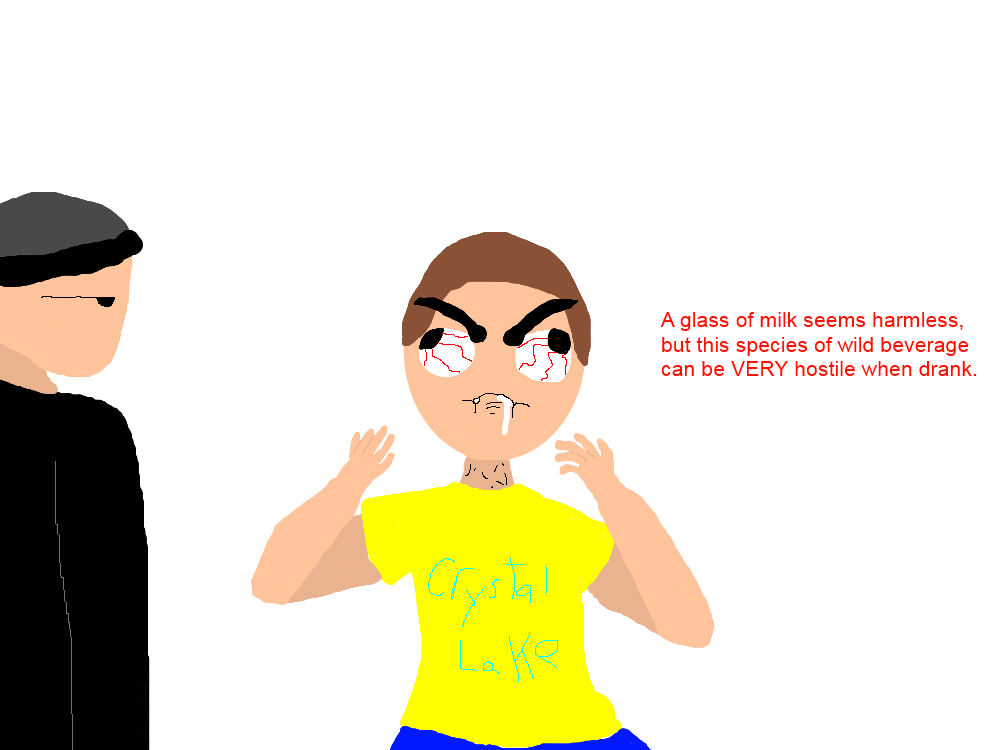
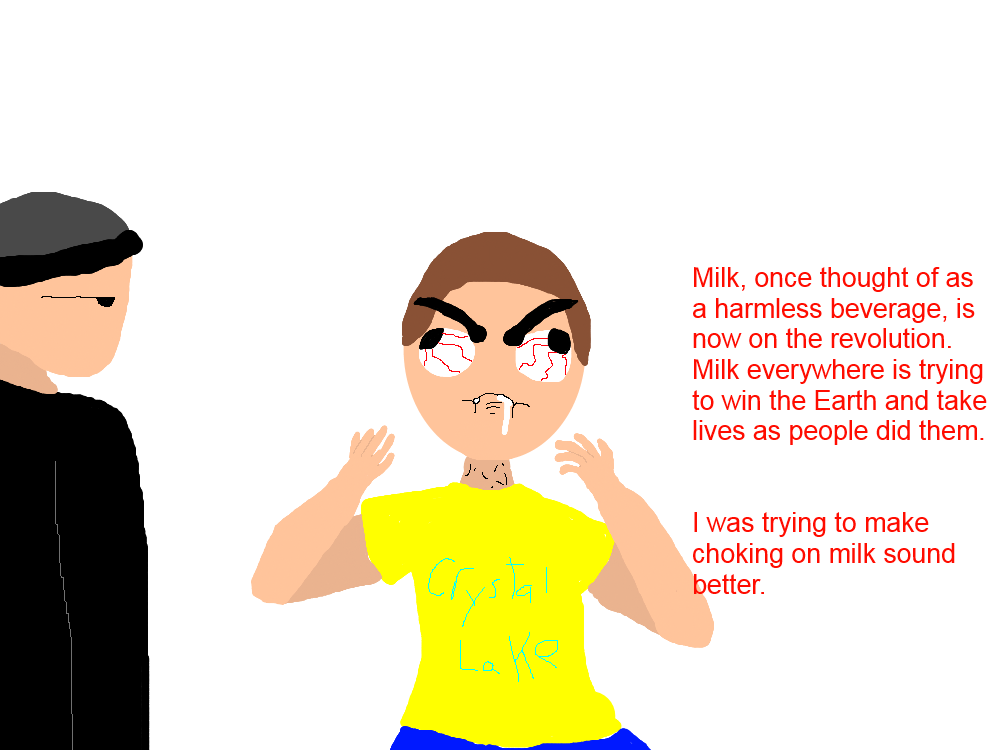
GAME FINISHED! WOOOOOOOOOOOOOOOOOO!

Changed region(s): [[0.651, 0.3373, 0.992, 0.6133], [0.682, 0.6747, 0.961, 0.7973]]

diff --git a/Screen.py b/Screen.py
@@ -25,6 +25,8 @@ class Screen(pygame.sprite.Sprite):
             self.bgImage = pygame.image.load("Home Alone - Noises In Basement/Backgrounds/Run Away!.png")
         elif self.name == "Room(2)":
             self.bgImage = pygame.image.load("Home Alone - Noises In Basement/Backgrounds/Room (2).png")
+        elif self.name == "Milk Choke":
+            self.bgImage = pygame.image.load("Home Alone - Noises In Basement/Backgrounds/MilkChoke.png")
 
         if self.name == "YouFailMiserabally":
             self.bgImage = pygame.image.load("Home Alone - Noises In Basement/Backgrounds/YouFailMiserabally.png")
@@ -40,6 +42,10 @@ class Screen(pygame.sprite.Sprite):
 
         if self.name == "Room(2)":
             self.bgImage = pygame.image.load("Home Alone - Noises In Basement/Backgrounds/Room (2).png")
+            self.choices = [Choice("Retry?", 0, screenSize)]
+        
+        if self.name == "Milk Choke":
+            self.bgImage = pygame.image.load("Home Alone - Noises In Basement/Backgrounds/MilkChoke.png")
             self.choices = [Choice("Retry?", 0, screenSize)]
 
         self.bgImage = pygame.transform.scale(self.bgImage, screenSize)    

diff --git a/HTSAM.py b/HTSAM.py
@@ -97,10 +97,24 @@ while True:
             screen = Screen("Room(1.5)", size)
             player = Player(pygame.mouse.get_pos())
             
+    elif screen.name == "Milk Choke":
+        if theChoice == 0:
+            screen.unload()
+            screen = Screen("Room(1.5)", size)
+            player = Player(pygame.mouse.get_pos())
+            
     elif screen.name == "Basement":
         if theChoice == 0:
             screen.unload()
             screen = Screen("YouFailMiserabally", size)
+            player = Player(pygame.mouse.get_pos())
+        elif theChoice == 1:
+            screen.unload()
+            screen = Screen("Milk Choke", size)
+            player = Player(pygame.mouse.get_pos())
+        elif theChoice == 2:
+            screen.unload()
+            screen = Screen("Run Away!", size)
             player = Player(pygame.mouse.get_pos())
         
 
